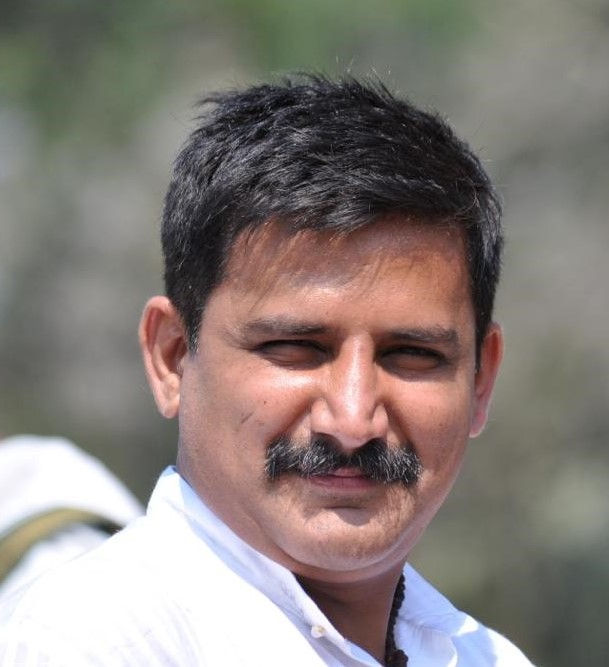
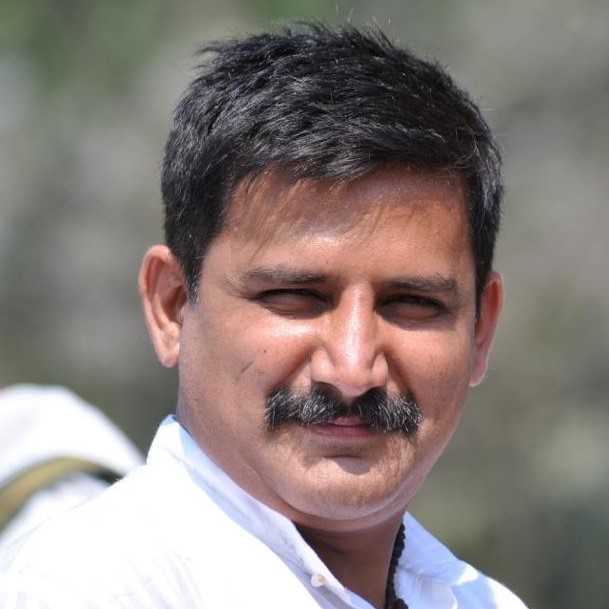
2020 speakers Live

diff --git a/index.html b/index.html
@@ -143,59 +143,59 @@ var x = setInterval(function() {
       <div class="container">
         <div class="section-header">
           <h2>Event Speakers</h2>
-          <!-- <p>Here are our speakers</p> -->
-          <p>Announcing soon</p>
+          <p>Here are our speakers</p>
+          <!-- <p>Announcing soon</p> -->
         </div>
 
-        <!-- <div class="row">
+        <div class="row">
           <div class="col-lg-4 col-md-6">
             <div class="speaker">
-              <img src="img/speakers/abhishek.webp" alt="Speaker 1" class="img-fluid">
+              <img src="img/speakers/akshay.JPG" alt="Speaker 1" class="img-fluid imgbwcol">
               <div class="details">
-                <h3><a href="/abhishek-mohurley.html">Mr. Abhishek Mohurley</a></h3>
-                <p>Author, Entrepreneur</p>
+                <h3><a href="/akshay-bhosale.html">Mr. Akshay Bhosale</a></h3>
+                <p>Dancer and Choreographer</p>
               </div>
             </div>
           </div>
 		  
           <div class="col-lg-4 col-md-6">
             <div class="speaker">
-              <img src="img/speakers/niyati.webp" alt="Speaker 2" class="img-fluid">
+              <img src="img/speakers/haimanti.jpg" alt="Speaker 2" class="img-fluid imgbwcol">
               <div class="details">
-                <h3><a href="/niyati-n-shah.html">Mrs. Niyati N. Shah</a></h3>
-                <p>Sexuality Educator</p>
+                <h3><a href="/haimanti-sen.html">Mrs. Hainmanti Sen</a></h3>
+                <p>Founder of Junoon- an NGO</p>
               </div>
             </div>
           </div>
           
           <div class="col-lg-4 col-md-6">
             <div class="speaker">
-              <img src="img/speakers/arnab.webp" alt="Speaker 4" class="img-fluid">
+              <img src="img/speakers/mitch.jpg" alt="Speaker 4" class="img-fluid imgbwcol">
               <div class="details">
-                <h3><a href="/arnab-nandy.html">Mr. Arnab Nandy</a></h3>
-                <p>A Voice</p>
+                <h3><a href="/mitch-altman.html">Mr. Mitch Altman</a></h3>
+                <p>Hacker & Inventor</p>
               </div>
             </div>
           </div>
           <div class="col-lg-4 col-md-6">
             <div class="speaker">
-              <img src="img/speakers/evelet.webp" alt="Speaker 5" class="img-fluid">
+              <img src="img/speakers/sonal.jpeg" alt="Speaker 5" class="img-fluid imgbwcol">
               <div class="details">
-                <h3><a href="/evelet-sequeira.html">Dr. Evelet Sequeira</a></h3>
-                <p>International Life Coach</p>
+                <h3><a href="/sonal-jain.html">Mrs. Sonal Jain</a></h3>
+                <p>Menstrual Health Advocate</p>
               </div>
             </div>
           </div>
           <div class="col-lg-4 col-md-6">
             <div class="speaker">
-              <img src="img/speakers/niraj.webp" alt="Speaker 6" class="img-fluid">
+              <img src="img/speakers/Ravindra.jpeg" alt="Speaker 6" class="img-fluid imgbwcol">
               <div class="details">
-                <h3><a href="/niraj-vasani.html">Mr. Niraj Vasani</a></h3>
-                <p>Stock market analyst</p>
+                <h3><a href="/ravindra-desai.html">Mr. Ravindra Desai</a></h3>
+                <p>Director, Gov and Corp relations</p>
               </div>
             </div>
           </div>
-          <div class="col-lg-4 col-md-6">
+          <!-- <div class="col-lg-4 col-md-6">
           <div class="speaker">
           <img src="img/speakers/gaurang.webp" alt="Speaker 1" class="img-fluid">
           <div class="details">

diff --git a/sonal-jain.html b/sonal-jain.html
@@ -46,13 +46,13 @@
 
         <nav id="nav-menu-container">
           <ul class="nav-menu">
-            <li><a href="#intro">Home</a></li>
+            <li><a href="/#intro">Home</a></li>
             <li><a href="/about-us.html">About</a></li>
-            <li class="menu-active"><a href="#speakers">Speakers</a></li>
-            <li><a href="#schedule">Schedule</a></li>
+            <li class="menu-active"><a href="/#speakers">Speakers</a></li>
+            <li><a href="/#schedule">Schedule</a></li>
             <!-- <li><a href="#venue">Venue</a></li> -->
             <!-- <li><a href="#hotels">Team</a></li> -->
-            <li><a href="#contact">Contact</a></li>
+            <li><a href="/#contact">Contact</a></li>
           </ul>
         </nav>
         <!-- #nav-menu-container -->
@@ -80,7 +80,7 @@
                 <br />
                 <div class="section-header">
                   <h2>Soanl Jain</h2>
-                  <p>Co-Founder, Boondh</p>
+                  <p>Menstrual Health Advocate</p>
                 </div>
                 <p>
                   Sonal Jain (co-founder, Boondh) is a menstrual health advocate

diff --git a/akshay-bhosale.html b/akshay-bhosale.html
@@ -46,13 +46,13 @@
 
         <nav id="nav-menu-container">
           <ul class="nav-menu">
-            <li><a href="#intro">Home</a></li>
+            <li><a href="/#intro">Home</a></li>
             <li><a href="/about-us.html">About</a></li>
-            <li class="menu-active"><a href="#speakers">Speakers</a></li>
-            <li><a href="#schedule">Schedule</a></li>
+            <li class="menu-active"><a href="/#speakers">Speakers</a></li>
+            <li><a href="/#schedule">Schedule</a></li>
             <!-- <li><a href="#venue">Venue</a></li> -->
             <!-- <li><a href="#hotels">Team</a></li> -->
-            <li><a href="#contact">Contact</a></li>
+            <li><a href="/#contact">Contact</a></li>
           </ul>
         </nav>
         <!-- #nav-menu-container -->

diff --git a/haimanti-sen.html b/haimanti-sen.html
@@ -46,13 +46,13 @@
 
         <nav id="nav-menu-container">
           <ul class="nav-menu">
-            <li><a href="#intro">Home</a></li>
+            <li><a href="/#intro">Home</a></li>
             <li><a href="/about-us.html">About</a></li>
-            <li class="menu-active"><a href="#speakers">Speakers</a></li>
-            <li><a href="#schedule">Schedule</a></li>
+            <li class="menu-active"><a href="/#speakers">Speakers</a></li>
+            <li><a href="/#schedule">Schedule</a></li>
             <!-- <li><a href="#venue">Venue</a></li> -->
             <!-- <li><a href="#hotels">Team</a></li> -->
-            <li><a href="#contact">Contact</a></li>
+            <li><a href="/#contact">Contact</a></li>
           </ul>
         </nav>
         <!-- #nav-menu-container -->

diff --git a/ravindra-desai.html b/ravindra-desai.html
@@ -46,13 +46,13 @@
 
         <nav id="nav-menu-container">
           <ul class="nav-menu">
-            <li><a href="#intro">Home</a></li>
+            <li><a href="/#intro">Home</a></li>
             <li><a href="/about-us.html">About</a></li>
-            <li class="menu-active"><a href="#speakers">Speakers</a></li>
-            <li><a href="#schedule">Schedule</a></li>
+            <li class="menu-active"><a href="/#speakers">Speakers</a></li>
+            <li><a href="/#schedule">Schedule</a></li>
             <!-- <li><a href="#venue">Venue</a></li> -->
             <!-- <li><a href="#hotels">Team</a></li> -->
-            <li><a href="#contact">Contact</a></li>
+            <li><a href="/#contact">Contact</a></li>
           </ul>
         </nav>
         <!-- #nav-menu-container -->

diff --git a/mitch-altman.html b/mitch-altman.html
@@ -46,13 +46,13 @@
 
         <nav id="nav-menu-container">
           <ul class="nav-menu">
-            <li><a href="#intro">Home</a></li>
+            <li><a href="/#intro">Home</a></li>
             <li><a href="/about-us.html">About</a></li>
-            <li class="menu-active"><a href="#speakers">Speakers</a></li>
-            <li><a href="#schedule">Schedule</a></li>
+            <li class="menu-active"><a href="/#speakers">Speakers</a></li>
+            <li><a href="/#schedule">Schedule</a></li>
             <!-- <li><a href="#venue">Venue</a></li> -->
             <!-- <li><a href="#hotels">Team</a></li> -->
-            <li><a href="#contact">Contact</a></li>
+            <li><a href="/#contact">Contact</a></li>
           </ul>
         </nav>
 

diff --git a/css/style.css b/css/style.css
@@ -1,6 +1,12 @@
 /*--------------------------------------------------------------
 # General
 --------------------------------------------------------------*/
+
+.imgbwcol {
+  filter: grayscale(80%);
+}
+
+
 @-webkit-keyframes animate-svg-stroke-1 {
   0% {
     stroke-dashoffset: 1450.70166015625px;
